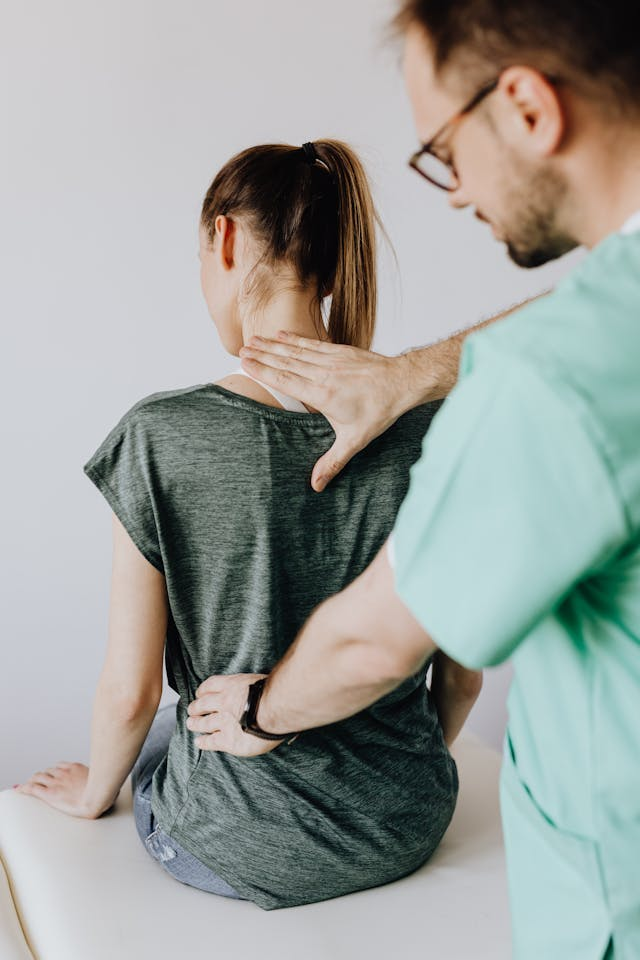
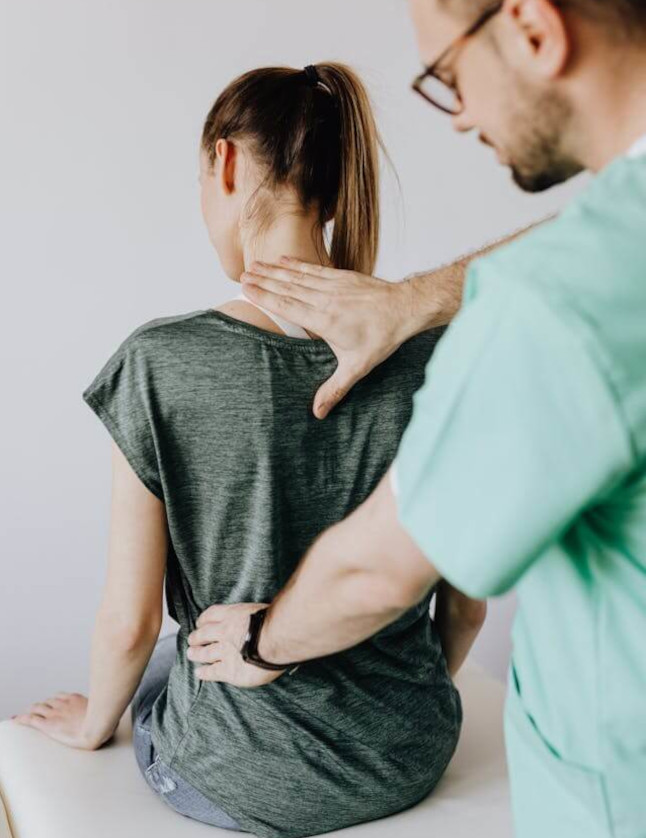
alteração de imagem resolução

diff --git a/style.css b/style.css
@@ -5,7 +5,6 @@
 * {
     margin: 0;
     padding: 0;
-    box-sizing: 0;
 }
 
 body,html {
@@ -52,16 +51,22 @@ article {
     margin-top: 35px;
     font-family: Arial, Helvetica, sans-serif;
     color: #068ED1;
-    font-size: 1em;
+    font-size: 24px;
     font-weight: bolder;
+    padding-bottom: 10px;
 }
+
 #imagem1 {
     display: flex;
 }
 
-#imagem1 > img {
-    height: 90vh;
-    width: 100%
+#imagem1  {
+    height: 100vh;
+    width: 100%;
+    background-image: url(IMAGENS/IMGP.jpg);
+    background-position: center center;
+    background-repeat: no-repeat;
+
 }
 
 #agendamento{
@@ -70,7 +75,6 @@ article {
 }
 #agendamento > a {
     display: flex;
-    background-color: #30BA3F;
     justify-content: center;
     align-items: center;
     text-align: center;
@@ -81,4 +85,9 @@ article {
     text-shadow: 1px solid black;
     font-family: Arial, Helvetica, sans-serif;
     font-weight: bold;
+}
+
+#agendamento :hover {
+    background-color: rgb(245, 0, 0);
+    box-shadow: 1px solid black;
 }

diff --git a/index.html b/index.html
@@ -23,7 +23,7 @@
         
         </div>
         <div id="imagem1">
-            <img src="IMAGENS/IMGP.jpg" alt="">
+            
         </div>
         <div id="agendamento">
             <a href="#">Agendar avaliação</a>
